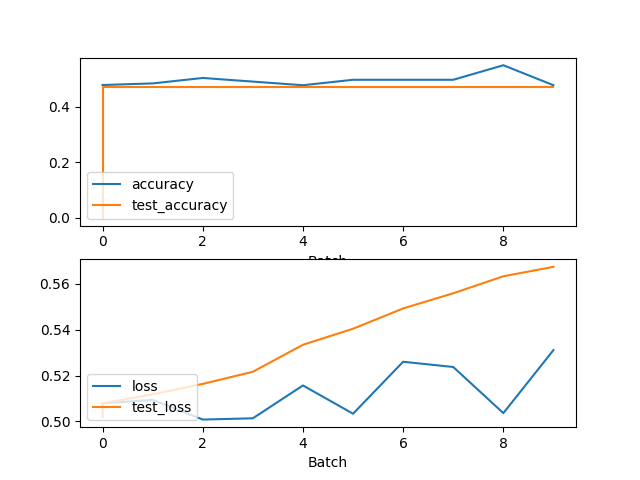
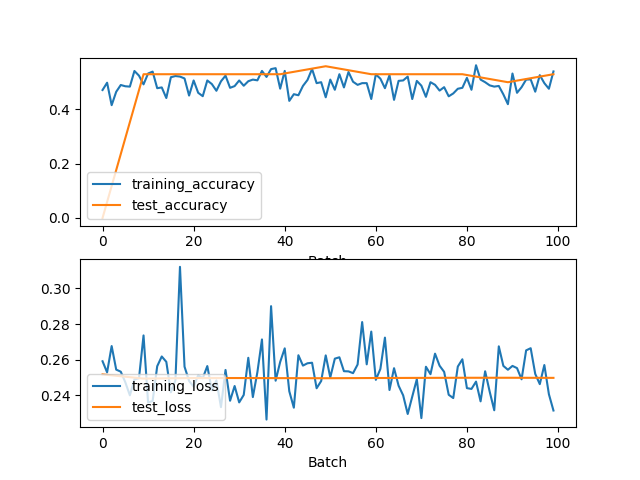
square error and more data

diff --git a/planner/policylearn/train_model_gcn.py b/planner/policylearn/train_model_gcn.py
@@ -54,7 +54,7 @@ def train(model, datas, optimizer):
     for i_d, data in enumerate(datas):
         out = model(data.x, data.edge_index, data.pos)
         accuracy[i_d] = torch.round(out) == data.y
-        loss = torch.abs(out - data.y)
+        loss = torch.pow(out - data.y, 2)
         losss[i_d] = loss
         loss.backward()
         optimizer.step()
@@ -70,7 +70,7 @@ def test(model, datas):
     for i_d, data in enumerate(datas):
         out = model(data.x, data.edge_index, data.pos)
         accuracy[i_d] = torch.round(out) == data.y
-        loss[i_d] = torch.abs(out - data.y)
+        loss[i_d] = torch.pow(out - data.y, 2)
     return float(torch.mean(accuracy)), float(torch.mean(loss))
 
 
@@ -154,7 +154,7 @@ if __name__ == "__main__":
                 optimizer = torch.optim.Adam(model.parameters())
 
                 # train
-                accuracy: List[float] = []
+                training_accuracy: List[float] = []
                 val_accuracy: Optional[List[float]] = []
                 test_accuracy: List[float] = []
                 loss: List[float] = []
@@ -171,11 +171,11 @@ if __name__ == "__main__":
                 test_accuracy.append(pretrain_test_accuracy)
                 test_loss.append(pretrain_test_loss)
             # (if) on first file only
-            training_accuracy, training_loss = train(
+            one_training_accuracy, one_training_loss = train(
                 model, train_graphs, optimizer)
-            accuracy.append(training_accuracy)
+            training_accuracy.append(one_training_accuracy)
             val_accuracy = None
-            loss.append(training_loss)
+            loss.append(one_training_loss)
             val_loss = None
 
             del d
@@ -188,7 +188,7 @@ if __name__ == "__main__":
             model, test_graphs)
         print(f"one_test_loss: {one_test_loss}")
         print(f"one_test_accuracy: {one_test_accuracy}")
-        test_x.append(len(accuracy)-1)
+        test_x.append(len(training_accuracy)-1)
         test_accuracy.append(one_test_accuracy)
         test_loss.append(one_test_loss)
 
@@ -197,8 +197,8 @@ if __name__ == "__main__":
 
     # print history
     fig, axs = plt.subplots(2)
-    axs[0].plot(accuracy, label="accuracy")
-    axs[1].plot(loss, label="loss")
+    axs[0].plot(training_accuracy, label="training_accuracy")
+    axs[1].plot(loss, label="training_loss")
     if val_accuracy is not None:
         axs[0].plot(val_accuracy, label="val_accuracy")
     if val_loss is not None:
